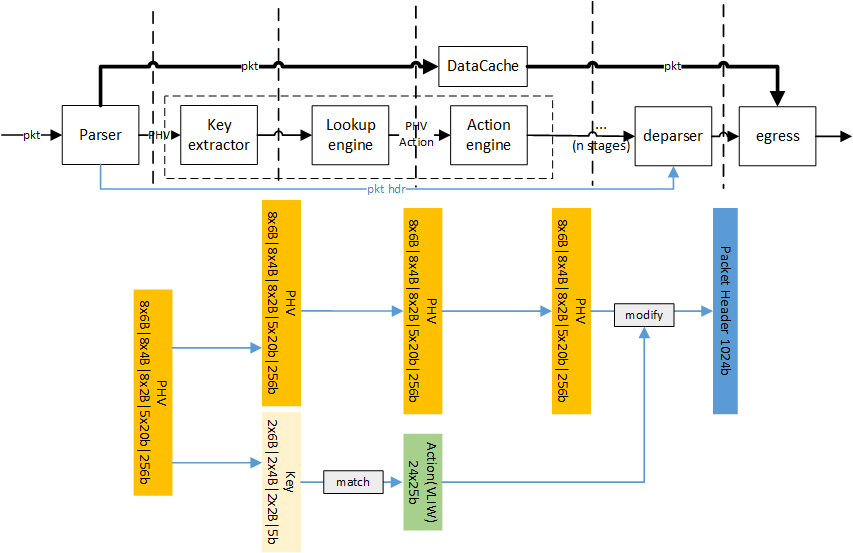
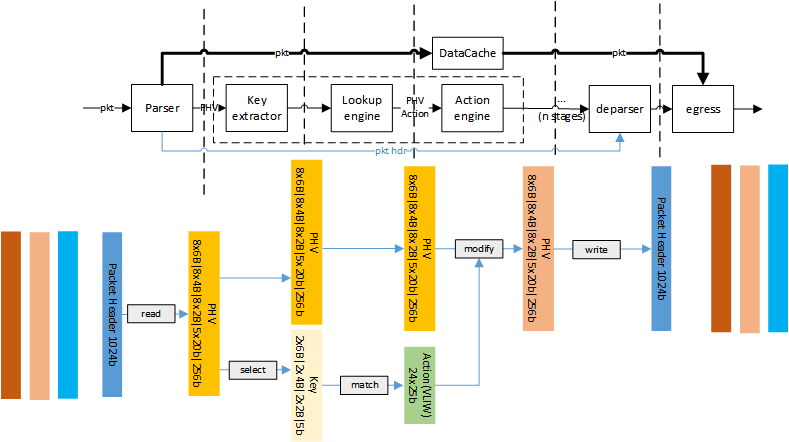
doc updated

diff --git a/doc/README.md b/doc/README.md
@@ -47,7 +47,7 @@
     > * `[127:0]` is copied from NetFPGA's `tuser` data.
     > * `[128]` is the discard flag where 1 means drop packet.
     > * `[255:250]` represents the next match table the PHV is going to be matched with.
-    > * `[140:129]` is the vlan id.
+    > * `[140:129]` is the `vlan id`.
     > * `[249:141]` is reserved for other usage.
 
 ---
@@ -93,7 +93,7 @@
 
   #### Action Engine
 
-  Action Engine takes the `action` output from Lookup Engine, and modifies PHV according to it. The actions that will be supported in the demo include `add`, `addi`, `sub`, `subi`, `load`, `store` `redirect port`, `discard`, `redirect table`. (still thinking about adding VxLAN and MPLS in the pipeline). Besides all these actions mentioned above, in each stage the action engine also needs to update the `next table id` in the metadata to support TTP in the RMT architecture.
+  Action Engine takes the `action` output from Lookup Engine, and modifies PHV according to it. The actions that will be supported in the demo include `add`, `addi`, `sub`, `subi`, `load`, `loadd`, `store`, `redirect port`, `discard`, `redirect table`. (still thinking about adding VxLAN and MPLS in the pipeline). Besides all these actions mentioned above, in each stage the action engine also needs to update the `next table id` in the metadata to support TTP in the RMT architecture.
 
   ![image-20200821140130485](image-20200821140130485.png)
 
@@ -101,20 +101,22 @@
   2. `addi` takes one operand from PHV based on the index in the action field and one operand from the action field directly, add them, and write the result back to the location of operand. 
   3. `sub`: takes two operands from the PHV based on the indexes in the action field, substract the 2nd operand from the 1st, and write the result back to the location of 1st operand.
   4. `subi`: takes one operand from the PHV based on the index in the action field and one from the action field directly, substract the 2nd operand from the 1st, and write the result back to the location of 1st operand.
-  5. `load`: read the value according to the address stored in the action field, write it into PHV according to the index in the action field.
-  6. `store`: read the value from PHV according to the index in the action field, write it into the address stored in the action field.
-  7. `port`: send the current packet from ports listed in the action field (including multicast).
-  8. `discard`: drop the current packet.
+  5. `load`: read the value from PHV based on the index in the action field. Then use the value as address from the stateful memory, write it into PHV according to the index of the 1st operand.
+  6. `loadd`: read the value from PHV based on the index in the action field. Then use the value as address from the stateful memory. increment by 1. And write it into PHV according to the action index. Finally write it back to the RAM.
+  7. `store`: read the value from PHV according to the index in the action field, write it into the address stored in the action field.
+  8. `port`: send the current packet from ports listed in the action field (including multicast).
+  9. `discard`: drop the current packet.
+  10. `set`: set the value of PHV container to a immediate value.
 
   There are three types of actions: 2-operand action, 1-operand action and metadata action as is shown below.
 
   * Action format:
   
-    For `add` (`0b'0001`) and `sub` (`0b'0010`) operations, the action format is:
+    For `add` (`4b'0001`), `load`(`4b'1011`), `loadd`(`4b0111'`) and `store`(`4b'1000`) and `sub` (`4b'0010`) operations, the action format is:
   
     ![2_action](2_action.png)
   
-    For `addi`(`0b'1001`), `subi`(`0b'1010`), `load`(`0b'1011`) and `store`(`0b'1000`), the action format is:
+    For `addi`(`4b'1001`), `subi`(`4b'1010`), `set`(`4b'1110`), the action format is:
   
     ![1_action](1_action.png)
   
@@ -125,20 +127,34 @@
     The default action field is `0x3f`, which can be seen if no action is matched.
 
 
-  In order to support VLIW (very long instruction word) in the action engine, there are 24 standard ALUs hard-wired with 24 containers in the PHV, and also 1 extra ALU to modify the metadata field in the PHV. A workflow of the action engine can be shown in the figure below:
+In order to support VLIW (very long instruction word) in the action engine, there are 24 standard ALUs hard-wired with 24 containers in the PHV, and also 1 extra ALU to modify the metadata field in the PHV. A workflow of the action engine can be shown in the figure below:
 
 
   ![action_engine](action_engine.png)
 
+  * Support for Memory-related operations in multi-tenancy
+
+    In the multitenancy scenario, the action engine needs to isolate the memory resources among each tenant for security reasons. In this regard, each tenant should be given a specific range of memory slot and must not access other slots. Moreover, elastic memory allocation is supported for efficient usage of such resources when both state-intensive tenants and other tenants' program running on the same device (Switch/NIC).
+
+    In order to support elastic memory isolation between tenants, a `mapping table` should be matched before read/write any data using `load/store`. The table size is 16x16. The format:
+
+    | vlan_id | base_addr | length |
+    | ------- | --------- | ------ |
+    | 0       | 0x12      | 16     |
+    | 1       | 0x00      | 12     |
+    | ...     | ...       | ...    |
+
+    where `vlan_id` is the key, `base_addr` (8b) and `length` (8b) is the entry content. During a `laod/loadd/store` operation, only operations whose `addr` is less than `length` can be executed. Otherwise, the request will be dropped.
+
     ***Action Details:***
     
-    1. To simplify the design, `store`/`load` supports only 4B (32b) operations, while all other actions support 2B, 4B and 6B according to the data width of the 1st operand.
+    1. To simplify the design, `store`/`load`/`loadd` supports only 4B (32b) operations, while all other actions support all 2B, 4B and 6B operands.
 
 ---
 
   #### Deparser
 
-  Deparser is used to recombine the packet header using info from the original packet header and PHV. Generally, it reverses the process executed in Parser.
+Deparser is used to recombine the packet header using info from the original packet header and PHV. Generally, it reverses the process executed in Parser.
 
 ---
 
@@ -159,10 +175,10 @@
 
   #### Table Types
 
-  There are 6 types of tables that need to be mentained using control plane.
+  There are 6 types of tables that need to be maintained using control plane.
 
   1. **Parsing Table**: This is a ***260x16 RAM*** that stores the info about how to extract containers out of the 1st 1024b of the packet. This table is duplicated in both **Parser** and **Deparser**.
-  2. **Extracting Table**: This is a ***18x16 RAM*** that indicates how the KEYs are generated from PHV. This table is in **Key Extractor**. Be noted that each entry of the table should be used cocurrently with a mask entry, indicating which bit should be masked (ignored).
+  2. **Extracting Table**: This is a ***18x16 RAM*** that indicates how the KEYs are generated from PHV. This table is in **Key Extractor**. Be noted that each entry of the table should be used concurrently with a mask entry, indicating which bit should be masked (ignored).
   3. **Mask Table**: This is a ***197x16 RAM*** that masks certain bits in the key field. It is also in **Key Extractor**. 
   4. **Lookup Table** (TCAM): This is a ***197x16 TCAM*** that serves as the lookup engine in the RMT pipeline. It is in **Lookup Engine**.
   5. **Action Table**: This is a ***625x16 RAM*** that stores VLIW instruction sets. It is also in **Lookup Engine**.
@@ -171,7 +187,7 @@
   #### Data Structures
 
   1. Module ID
-        
+     
       We use a two-layer indexing for the modules in RMT pipeline: Except the parser and deparser, who occur only once in the pipeline, all other modules (Key Extractors, Lookup Engines, Action Engines) indicate themselves with a **8b Module ID** -> |--5b--|--3b--|. The higher 5b tells which stage it belongs to, the lower 3b tells if it is a Key Extractor, Lookup Engine or Action Engine.
 
       With this module ID, we will be able to index the modules precisely.
@@ -199,8 +215,8 @@
 
   3. Control Packet Payload
   
-      To make things easy, we want each packet to be able to modify a whole table entry at a time. In order to achieve the goal. the packet length is flexible according to which table it is targeting. For example, if we are going to modify the entry of lookup table, we will only use the highest 197 bits of the payload field.
-      Another design choice we made was: the control packet suports write multiple table entries with a single packet. This is enabled by adding more payload after the 1st entry.
+      To make things easier, we want each packet to be able to modify a whole table entry at a time. In order to achieve the goal. the packet length is flexible according to which table it is targeting. For example, if we are going to modify the entry of lookup table, we will only use the highest 197 bits of the payload field.
+      Another design choice we made was: the control packet supports write multiple table entries with a single packet. This is enabled by adding more payload after the 1st entry.
 
   #### Implementation Details
 
@@ -209,6 +225,18 @@
   2. The 2nd layer index (lowest 3b) of the Module ID is: **0x0** for Parser, **0x1** for Key Extractor, **0x2** for Lookup Engine, **0x3** for Action Engine, **0x5** for Deparser.
 
   3. In order to have better isolation between control and data path, we **added a module (pkt_filter) in front of the RMT pipeline to filter out control packets**, and feed the control packets to the pipeline using a different AXIS channel.
+
+  #### Security Patch
+
+  One of the security threat that must take into consideration is "attackers may send molicious control packets to bring down the switch/NIC". To mitigate this, the control path leverages a cookie mechanism to ensure only users who know the cookie value are able to configure the hardware.
+
+  Specifically, the cookie is put in the 15B padding field in control packets, and is verified in `pkt_filter`. The cookie is updated every 400 seconds (8min). In order to issue a table update, the CPU needs to firstly read out the cookie via PCIe (using AXIL) and patch the cookie in the padding field. Once the control paackets reach the pipeline, `pkt_filter` checks whether the cookie value matches: if so, the table reconfiguration will be issued successfully; otherwise, the control packet will be treated as iligal and will be dropped.
+
+  Two key points regarding cookie implementation:
+
+  1. **Cookie register:** Cookie register is 32b-wide and is put in the `rmt_pipeline` top module. The cookie value is updated using a hash method in every 480s (8min, using a self-managed timer). The method is shown as `cookie = cookie ^ (key>>16) ^ key`, where the `key` is the lowest 32b of the self-managed timer.
+
+  2. **Read cookie from CPU:** While the cookie is updated on the FPGA part, it can be read out using software via PCIe. We use AXIL for this purpose. For corundum platform specifically, we connect the `rmt_pipeline` with the `axil_interconnect` module as a slave node and feed `cookie register` as the sole input. On the software side, `io_read32()` will be provided to read out the cookie value in real time. The hw_addr for cookie is set as `0xf1f2`. **The NetFPGA design will be added after timing issue is fixed.**
 
   #### Benefits over AXIL [TODO]
 
